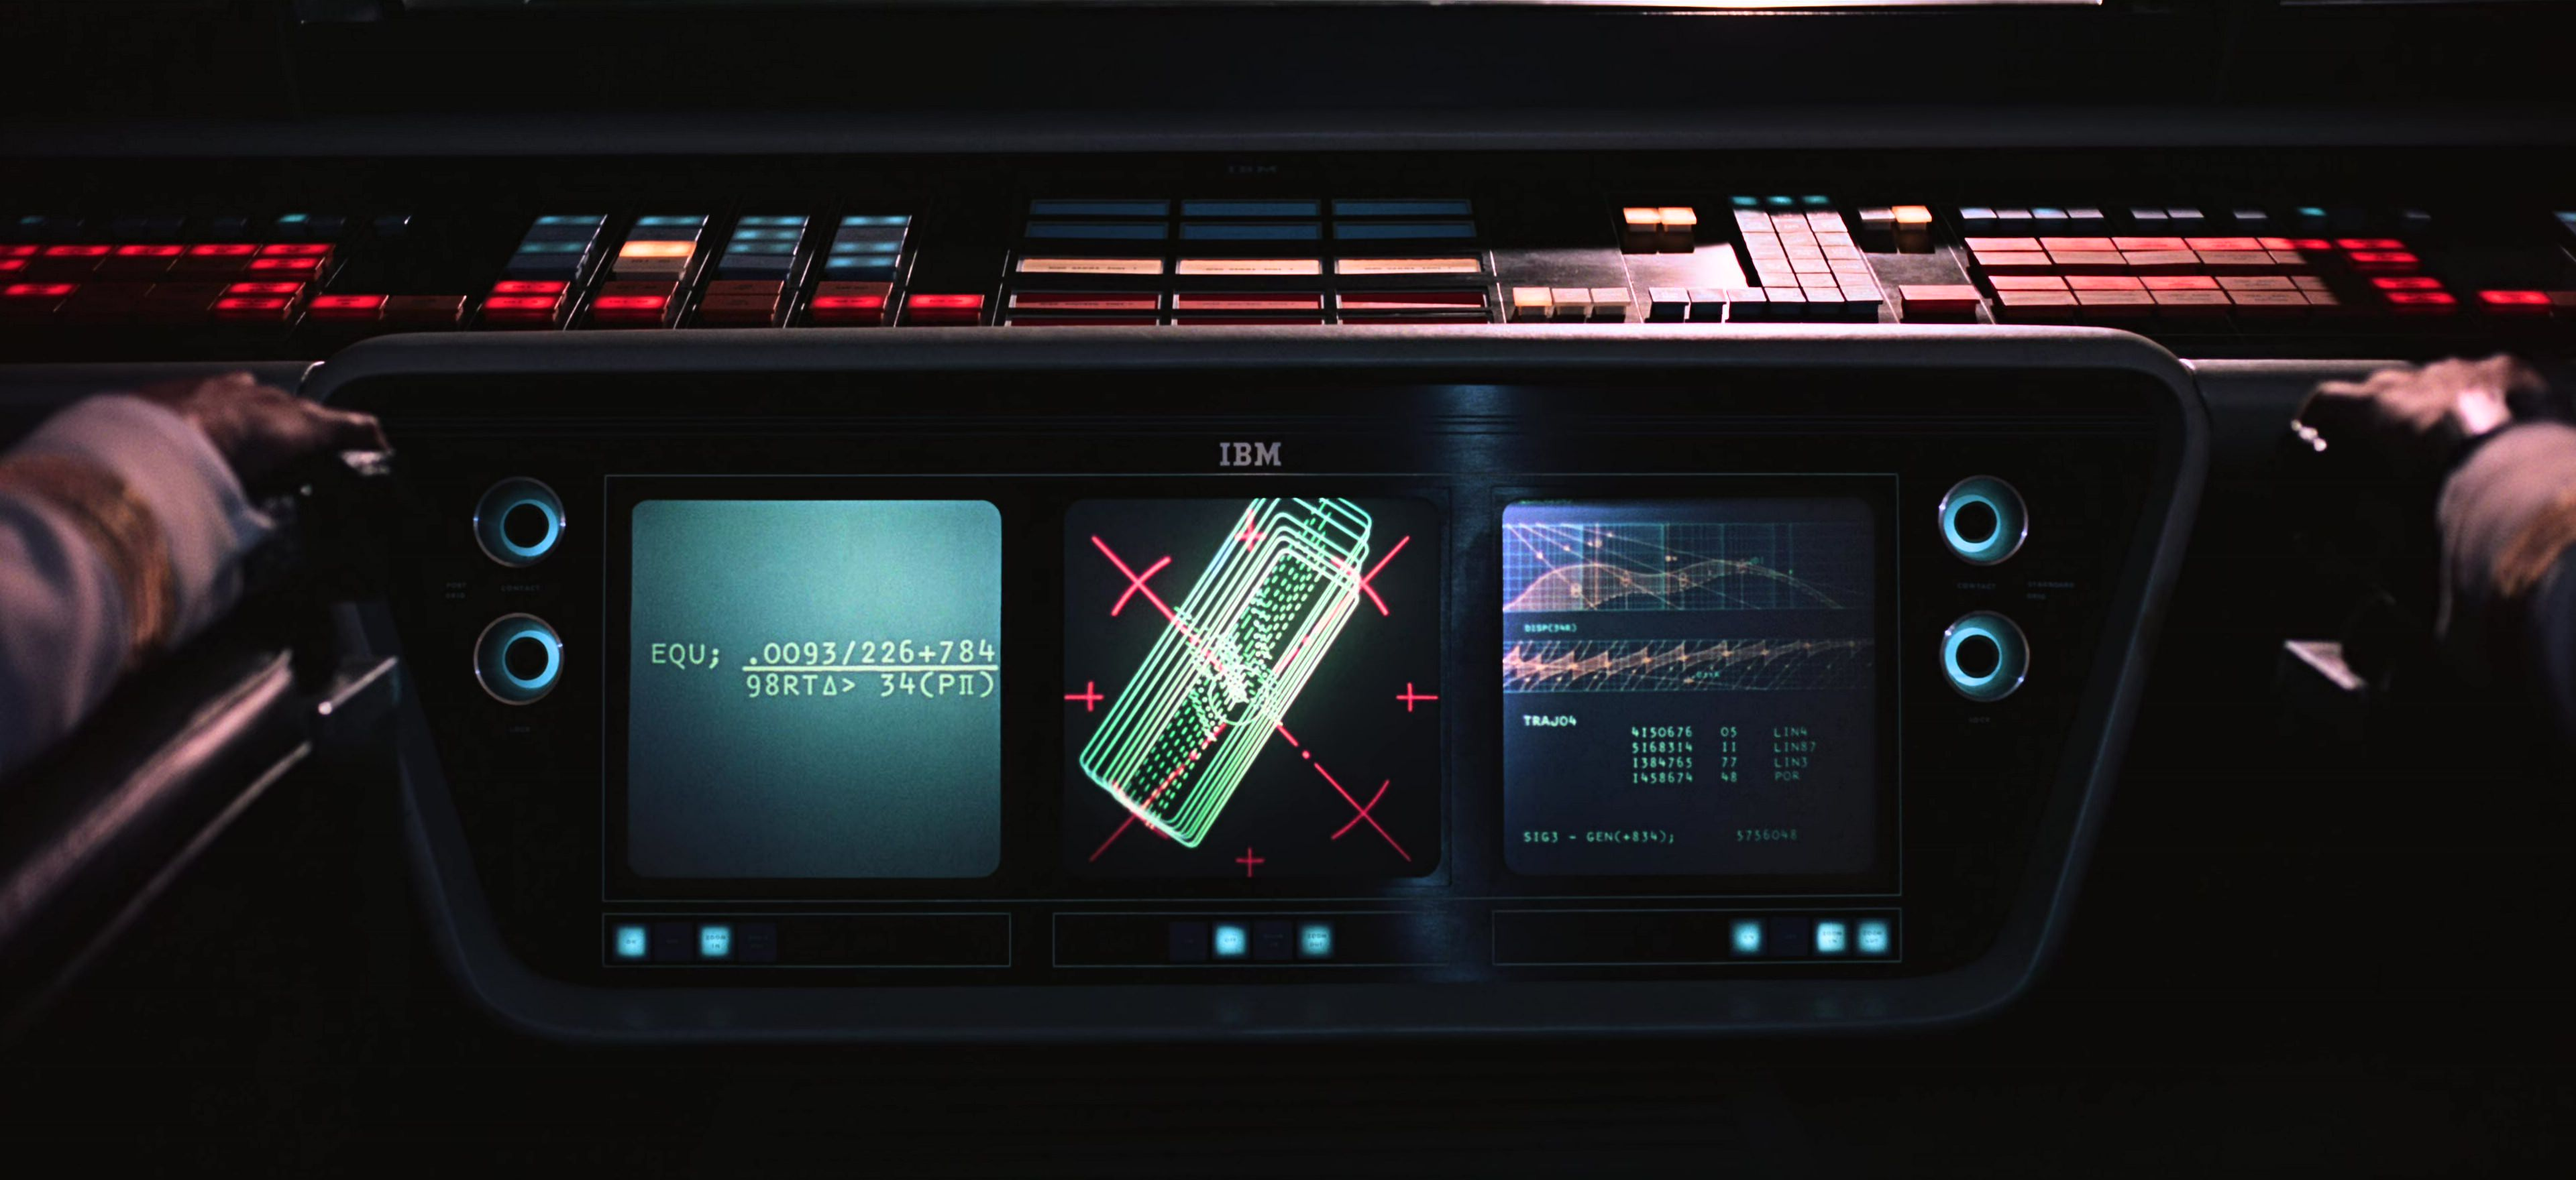
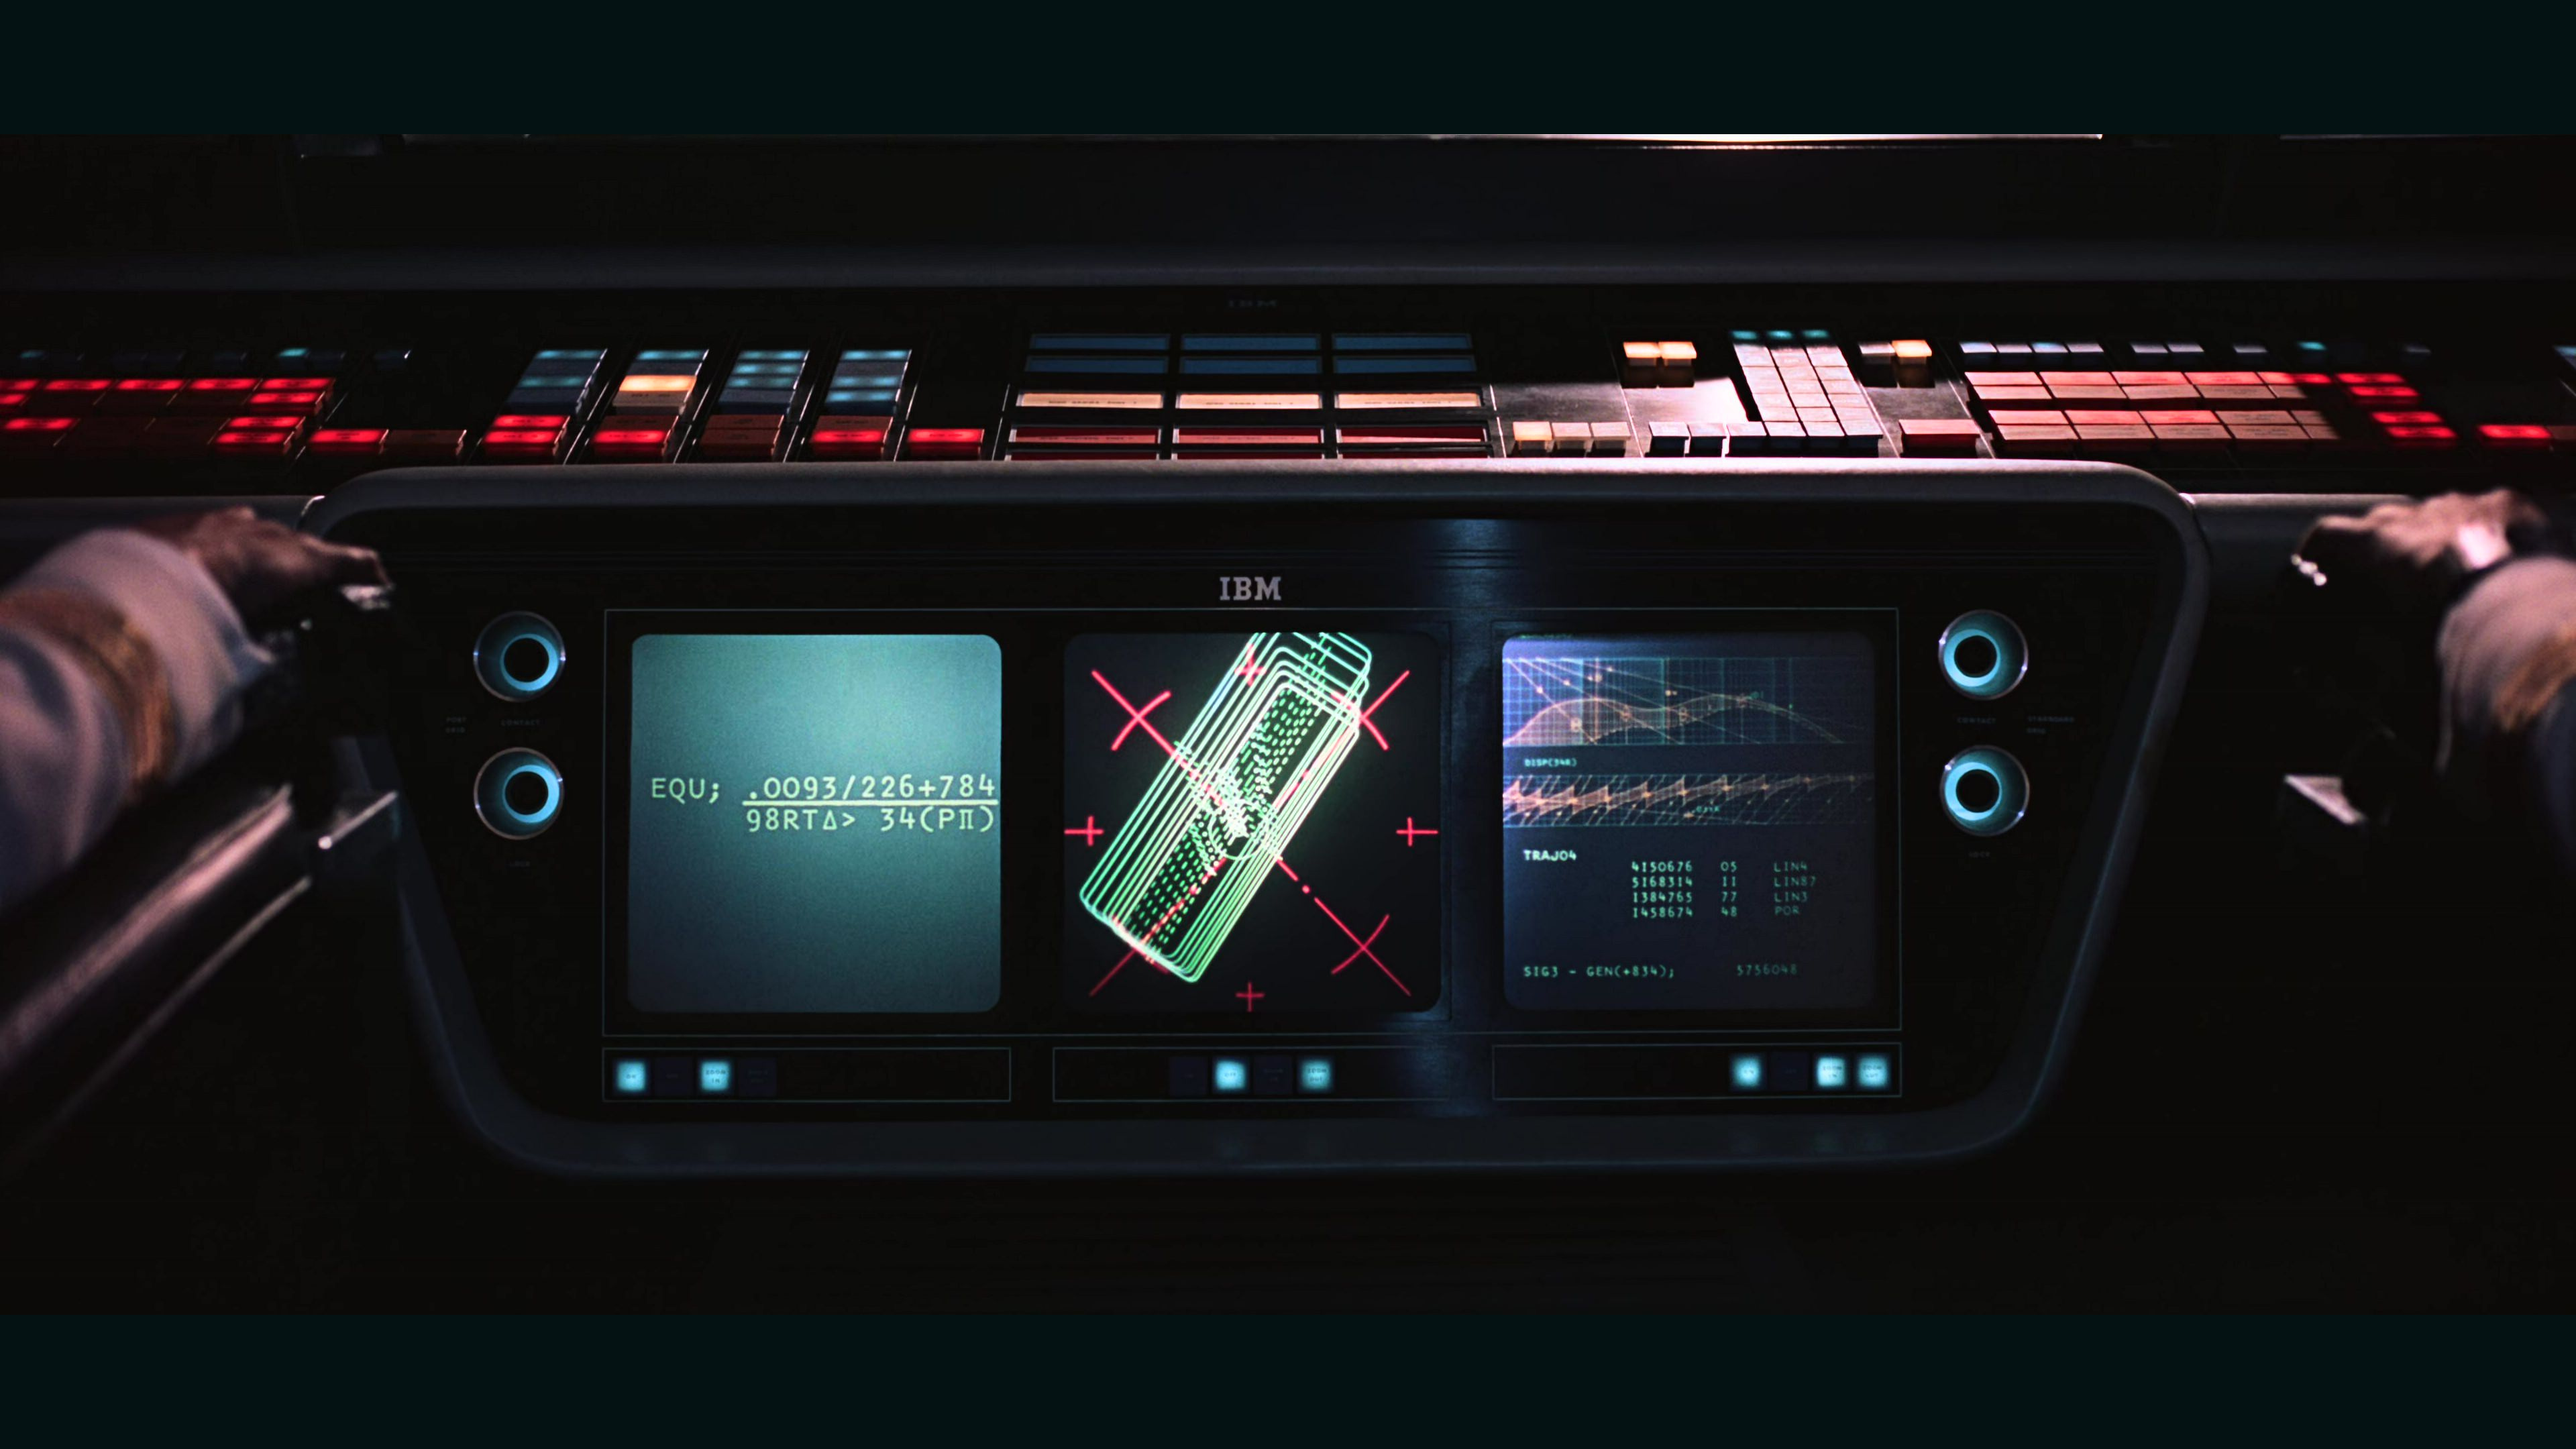
Fit wallpapers to 4K displays
Preserve each complete cinematic frame with graphite letterboxing at the monitor's native 3840x2160 aspect ratio.\n\nCo-Authored-By: GPT-5.6 Luna <noreply@openai.com>

diff --git a/backgrounds/SOURCES.md b/backgrounds/SOURCES.md
@@ -3,9 +3,11 @@
 All wallpapers live together in this directory:
 `~/.config/omarchy/themes/discovery-one/backgrounds/`.
 
-The collection contains 16 center-cropped `3840×1760` frames from *2001: A
-Space Odyssey*, selected for its spacecraft exteriors, orbital architecture,
-HAL interfaces, and practical instrument design.
+The collection contains 16 `3840×2160` wallpapers from *2001: A Space
+Odyssey*, selected for its spacecraft exteriors, orbital architecture, HAL
+interfaces, and practical instrument design. Each original `3840×1760` film
+frame is centered between graphite letterbox areas, preserving the complete
+image on a 16:9 display without stretching.
 
 - Source collection: https://www.movie-screencaps.com/2001-a-space-odyssey-1968-4k/
 - Direct image host: https://imgs.screencaps.us/196/4k-8-spaceodyssee/full/

diff --git a/README.md b/README.md
@@ -44,8 +44,8 @@ theme.
 - `colors.toml` — Omarchy colour definitions and ANSI terminal palette
 - `vencord.theme.css` — compact System24 spacecraft-instrument styling for Vencord/Vesktop
 - `icons.theme` — Yaru icon theme
-- `backgrounds/` — 16 curated 3840×1760 *2001* spacecraft, station, and
-  computer-interface frames
+- `backgrounds/` — 16 curated 3840×2160 *2001* spacecraft, station, and
+  computer-interface wallpapers; each preserves the full cinematic frame
 - `DESIGN.md` — visual direction and role rules
 - `backgrounds/SOURCES.md` — wallpaper frame references
 
